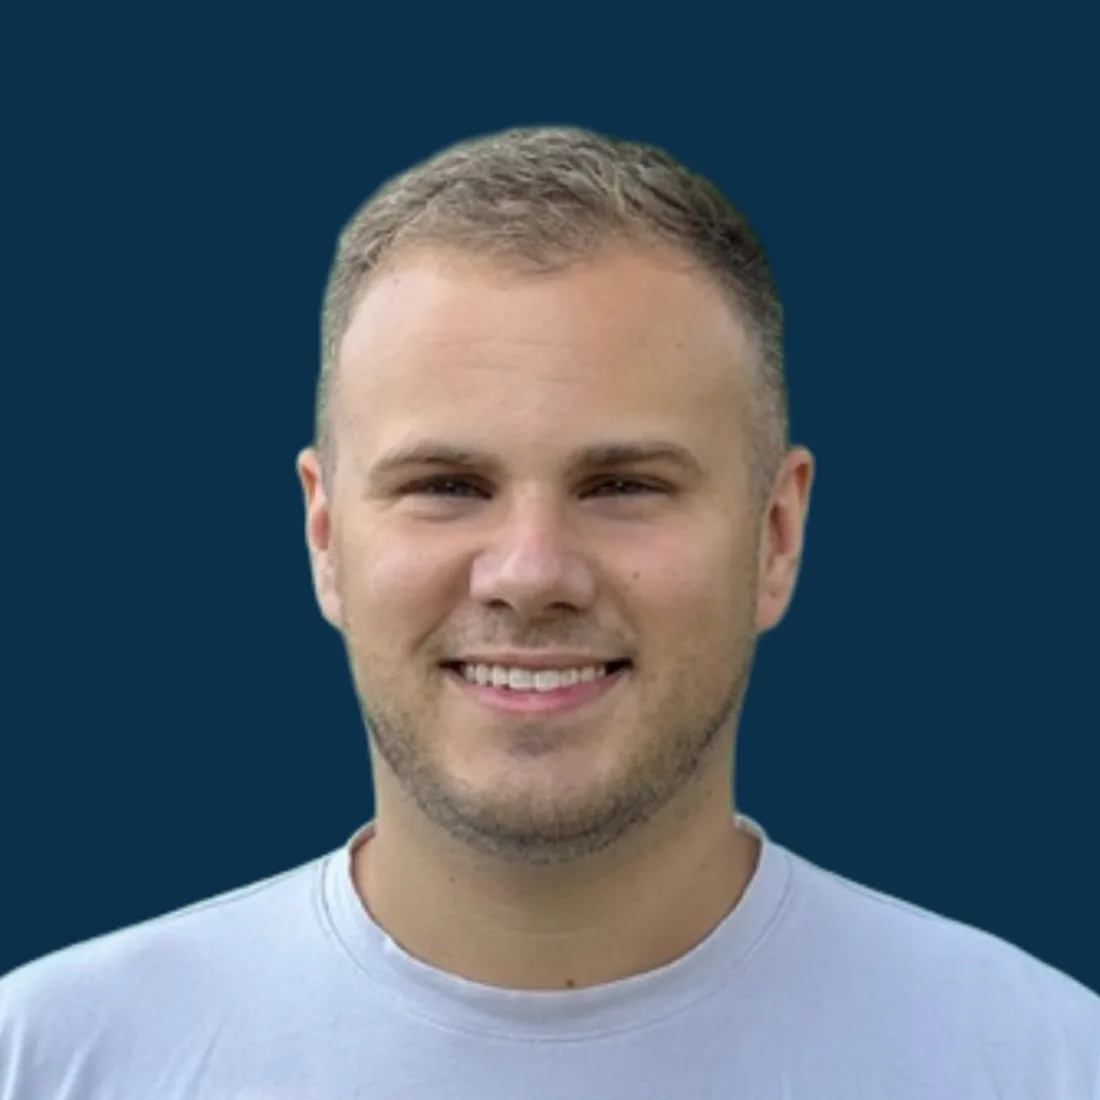
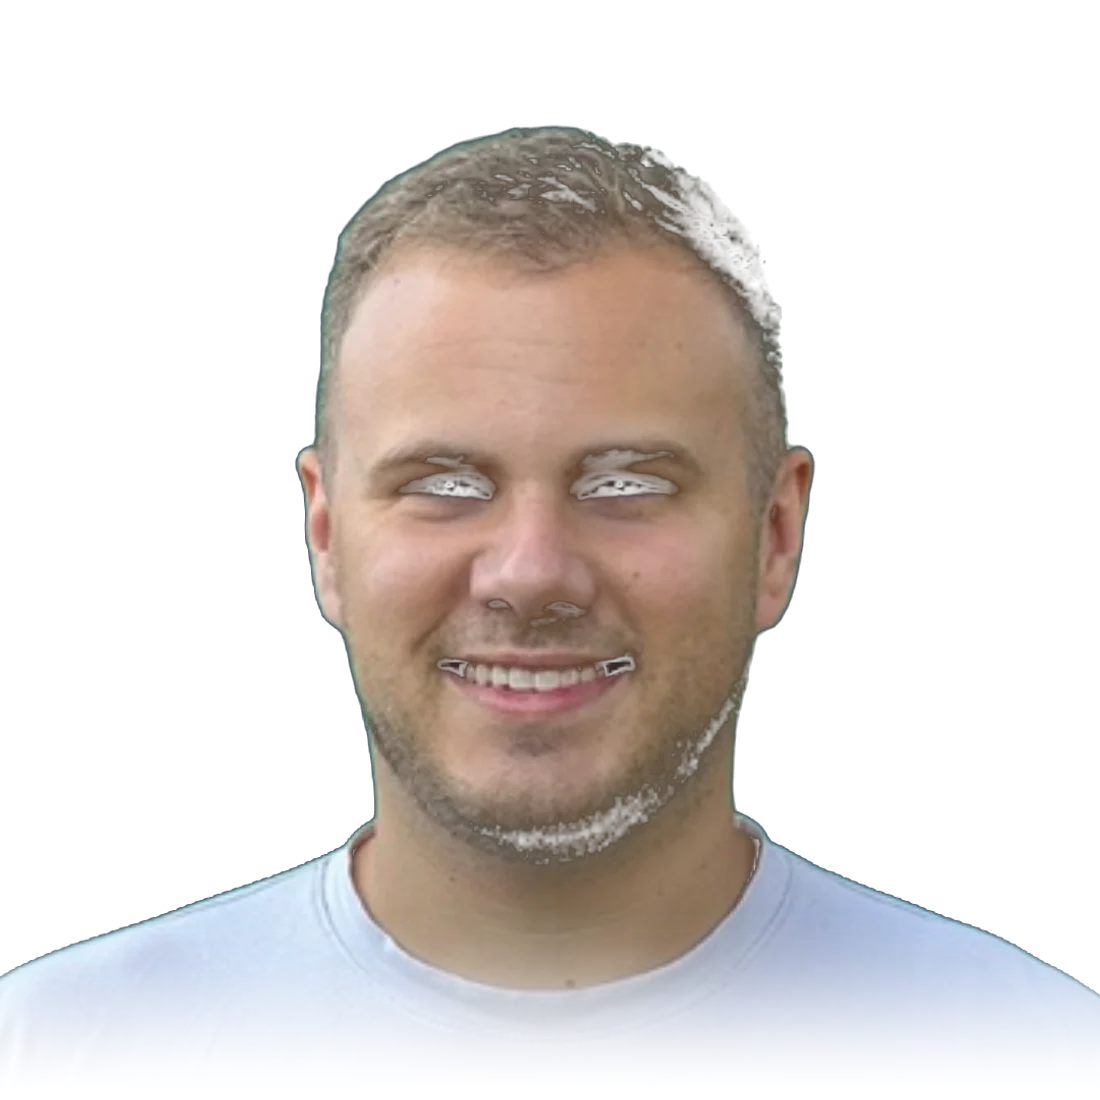
Use a background-removed portrait and change the footer note
The navy studio backdrop boxed the photo into a rectangle that fought the
rest of the page. It keys out cleanly: the background is a flat
rgb(11,47,74) covering 55% of the frame.

- portrait.webp is now a chroma-keyed cutout with a soft matte ramp and blue
  despill, so hair edges do not pick up a navy rim. Alpha ramps to zero over
  the bottom 18% so the shirt dissolves into the page rather than ending on a
  ruler-straight line. 64KB.
- Hero shows it in colour, unframed, and no longer rotated: with the
  background gone there is no rectangle to tilt, so a rotation would only tip
  the subject's head. Interior pages keep the greyscale framed plate.
- Footer note becomes "Building from Knoxville", with the leading word
  carrying the accent. Renamed the content fields from madeWith* to note*,
  since they no longer describe the copy.
- Keep scripts/cutout.js so the asset can be regenerated from a new photo.

Verified alpha survives the WebP encode at 55.6% transparent, and that the
face and both shoulders are intact.

diff --git a/scripts/cutout.js b/scripts/cutout.js
@@ -1,0 +1,83 @@
+// Chroma-key the flat navy studio background out of the headshot.
+// Soft-edged matte + blue despill, so hair does not get a hard halo.
+const sharp = require("sharp");
+
+const SRC = "/Users/ryan/Downloads/new-headshot-darkblue.png";
+const OUT =
+  "/private/tmp/claude-501/-Users-ryan-projects--crm/67bb066f-bd55-4048-a253-2e908262c3c1/scratchpad/treatments/cutout-base.png";
+
+const BG = [11, 47, 74];
+const INNER = 46; // fully transparent at or below this distance
+const OUTER = 96; // fully opaque at or above; between the two we ramp
+
+(async () => {
+  const { data, info } = await sharp(SRC)
+    .ensureAlpha()
+    .raw()
+    .toBuffer({ resolveWithObject: true });
+
+  const { width, height, channels } = info;
+  const out = Buffer.from(data);
+
+  let keyed = 0;
+  for (let i = 0; i < data.length; i += channels) {
+    const r = data[i];
+    const g = data[i + 1];
+    const b = data[i + 2];
+
+    const d = Math.sqrt(
+      (r - BG[0]) ** 2 + (g - BG[1]) ** 2 + (b - BG[2]) ** 2,
+    );
+
+    let a;
+    if (d <= INNER) a = 0;
+    else if (d >= OUTER) a = 255;
+    else a = Math.round(((d - INNER) / (OUTER - INNER)) * 255);
+
+    // Despill: on partially transparent edge pixels the navy bleeds into the
+    // subject, leaving a blue rim. Pull blue back toward the red/green level
+    // in proportion to how transparent the pixel is.
+    if (a > 0 && a < 255 && b > Math.max(r, g)) {
+      const spill = (1 - a / 255) * (b - Math.max(r, g));
+      out[i + 2] = Math.max(0, Math.round(b - spill));
+    }
+
+    out[i + 3] = a;
+    if (a === 0) keyed++;
+  }
+
+  await sharp(out, { raw: { width, height, channels: 4 } })
+    .resize(1100, 1100, { fit: "cover" })
+    .png()
+    .toFile(OUT);
+
+  // Verify the subject survived: alpha coverage in the centre column should be
+  // high, and overall transparency should land near the 55% background share.
+  const check = await sharp(OUT).raw().toBuffer({ resolveWithObject: true });
+  const w = check.info.width;
+  const h = check.info.height;
+  let opaque = 0;
+  let centreOpaque = 0;
+  let centreTotal = 0;
+  for (let y = 0; y < h; y++) {
+    for (let x = 0; x < w; x++) {
+      const a = check.data[(y * w + x) * 4 + 3];
+      if (a > 128) opaque++;
+      if (x > w * 0.35 && x < w * 0.65 && y > h * 0.3) {
+        centreTotal++;
+        if (a > 128) centreOpaque++;
+      }
+    }
+  }
+  console.log("wrote", OUT);
+  console.log(
+    "transparent:",
+    (100 * (1 - opaque / (w * h))).toFixed(1) + "%",
+    "(expect ~55%)",
+  );
+  console.log(
+    "subject coverage in centre:",
+    (100 * (centreOpaque / centreTotal)).toFixed(1) + "%",
+    "(expect >90%)",
+  );
+})();

diff --git a/app/page.tsx b/app/page.tsx
@@ -47,18 +47,19 @@ export default function Home() {
               </div>
             </div>
 
-            {/* Tilted and unframed so the hero reads softer than the plates
-                used on interior pages. */}
+            {/* Background-removed cutout, in colour and unframed. Interior
+                pages keep the greyscale plate; the hero is the one place the
+                site is warm rather than documentary.
+                No tilt: with the background gone there is no rectangle left to
+                rotate, so a rotation would just tip the subject's head. */}
             <div className="mx-auto w-full max-w-sm lg:max-w-none">
-              <div className="plate rotate-[2deg] transition-transform duration-500 ease-out hover:rotate-0">
-                <img
-                  src={site.portrait}
-                  alt={hero.portraitAlt}
-                  width={1100}
-                  height={1100}
-                  className="block h-full w-full object-cover"
-                />
-              </div>
+              <img
+                src={site.portrait}
+                alt={hero.portraitAlt}
+                width={1100}
+                height={1100}
+                className="block h-auto w-full"
+              />
             </div>
           </div>
         </Container>

diff --git a/components/footer.tsx b/components/footer.tsx
@@ -10,9 +10,8 @@ export function Footer() {
       <Container>
         <div className="flex flex-col gap-5 py-6 sm:flex-row sm:items-center sm:justify-between sm:gap-8">
           <Label className="text-muted">
-            {footer.madeWith}{" "}
-            <span className="text-accent">{footer.madeWithEmphasis}</span>{" "}
-            {footer.madeWithPlace}
+            <span className="text-accent">{footer.noteEmphasis}</span>{" "}
+            {footer.noteRest}
           </Label>
 
           <nav aria-label="Footer">

diff --git a/lib/content.ts b/lib/content.ts
@@ -25,9 +25,9 @@ export const site = {
 };
 
 export const footer = {
-  madeWith: "Made with",
-  madeWithEmphasis: "love",
-  madeWithPlace: "in Knoxville",
+  // The emphasised word leads and carries the accent colour.
+  noteEmphasis: "Building",
+  noteRest: "from Knoxville",
 };
 
 export const nav = [

diff --git a/CONTENT-TODO.md b/CONTENT-TODO.md
@@ -37,8 +37,12 @@ later. Nothing here covers it.
 
 ## Assets
 
-- `public/portrait.webp` is your existing headshot, pre-sized to 1100px. It
-  renders through the `.plate` treatment in `app/globals.css`: grayscale, hard
-  edges, slightly dimmed so it does not glare against the dark ground.
-- `public/portrait-light.webp` is the alternate source photo, currently unused.
+- `public/portrait.webp` is your headshot with the navy studio background
+  chroma-keyed out, 1100px, alpha preserved, with an alpha ramp over the bottom
+  18% so the shirt dissolves into the page instead of ending on a hard line.
+  Regenerate it from `scratchpad/cutout.js` if you swap the source photo.
+- The hero shows it in colour and unframed. Interior pages render it through
+  the `.plate` treatment in `app/globals.css` (greyscale, framed, captioned).
+- `public/portrait-light.webp` is the alternate source photo, currently unused
+  and still carrying its background.
 - No favicon or social share image yet. Both worth adding before you promote the site.

diff --git a/README.md b/README.md
@@ -50,8 +50,10 @@ components/
 lib/
   content.ts        all site copy
 public/
-  portrait.webp     hero and about plate
+  portrait.webp     background-removed cutout, alpha, bottom fade
   portrait-light.webp  alternate source photo, currently unused
+scripts/
+  cutout.js         regenerates portrait.webp from a raw headshot
 ```
 
 ## Deploy (GitHub Pages)
